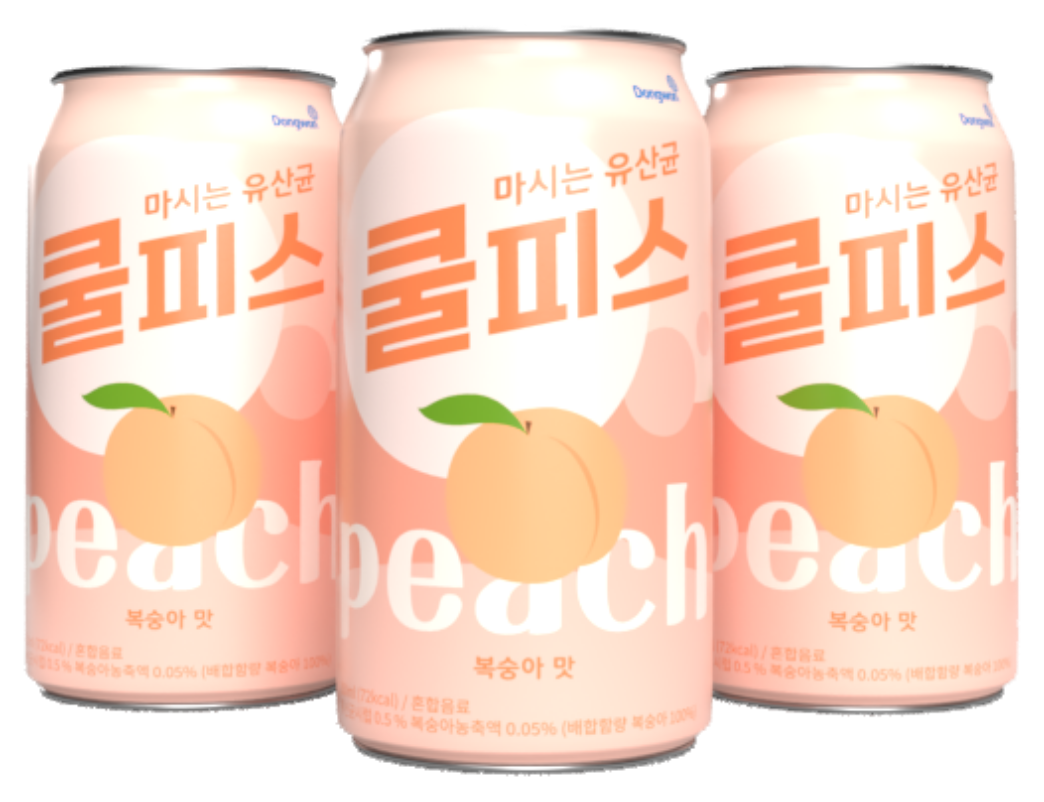
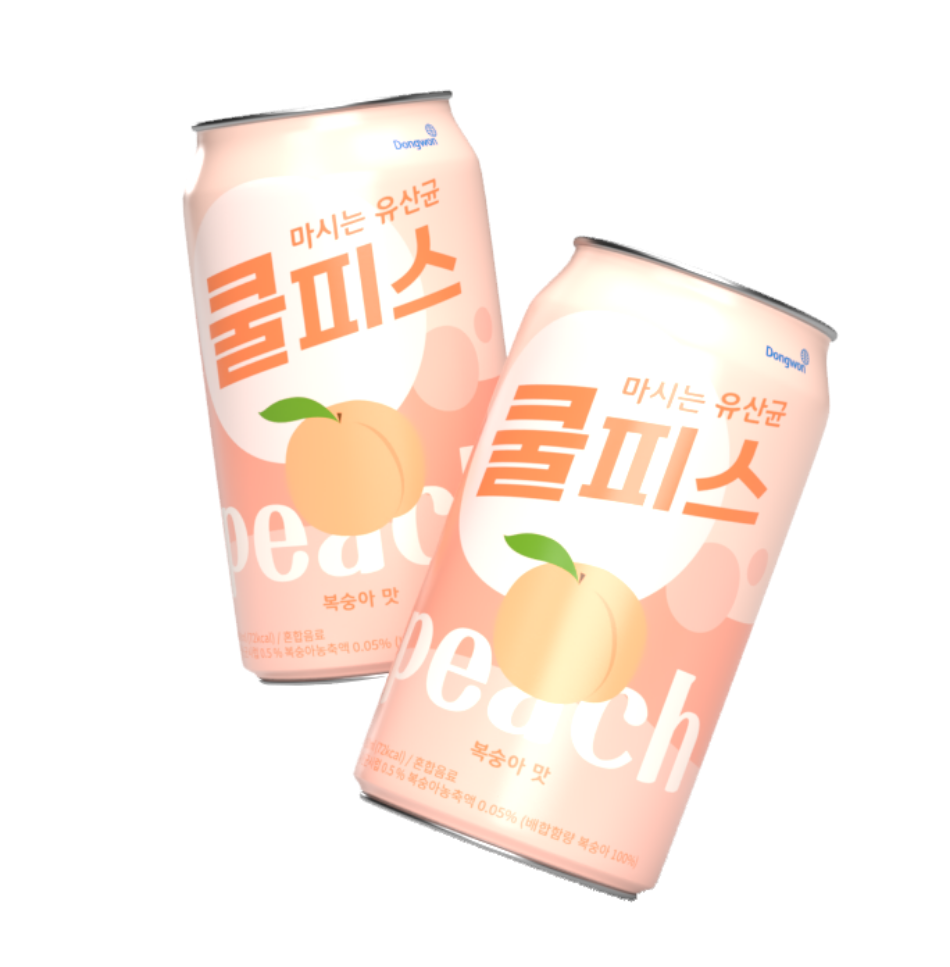
Add files via upload

diff --git a/style.css b/style.css
@@ -46,26 +46,26 @@
     
 .box3{
     width: 100%;
-    height: 1190px;
+    height: 1194px;
     background-image: url(img/bg02.png);
     background-size: cover; }
 .cont3{
     width: 1100px;
-    height: 1190px;
+    height: 979px;
     margin: 0 auto;
     display: flex;
     justify-content: center;
     position: relative; }
 .can2{
-    width: 549px;
-    height: 1033px;
+    width: 1100px;
+    height: 844px;
     position: absolute;
-    top: 158px; }
+    top: 350px; }
 
     
 .box4{
     width: 100%;
-    height: 208px;
+    height: 214px;
     text-align: center; }
 .cont4{
     width: 111px;
@@ -79,7 +79,7 @@
     
 .box5{
     width: 100%;
-    height: 382px; }
+    height: 368px; }
 .cont5{
     width: 706px;
     height: 382px;
@@ -99,34 +99,36 @@
 
 .box6{
     width: 100%;
-    height: 768px;
-    background-image: url(img/bg03.png);
-    background-position: center;
-    background-size: cover; }
+    height: 733px; }
 .cont6{
-    width: 1100px;
-    height: 768px;
+    width: 100%;
+    height: 733px;
     margin: 0 auto;
-    text-align: center; }
+    text-align: center;
+    background-image: url(img/bg03.png); }
 .cont6 > img{
-    padding-top: 242px; }
+    padding-top: 63px;}
 
 
 .box7{
     width: 100%;
-    height: 925px; }
+    height: 967px; }
 .cont7{
     width: 1100px;
-    height: 925px;
-    margin: 0 auto; }
-.cont7 > img{
-    padding-top: 64px; }
+    height: 967px;
+    margin: 0 auto; 
+    display: flex;
+    justify-content: center;
+    position: relative; }
 
 
 .box8{
     width: 100%;
-    height: 590px;
-    background-color: #FFB098; }
+    height: 590px;    
+    background-image: url(img/bg04.png);
+    background-position: center;
+    background-size: cover;
+ }
 .cont8{
     width: 1100px;
     height: 590px;

diff --git a/index.html b/index.html
@@ -50,7 +50,7 @@
 
     <div class="box6">
         <div class="cont6">
-            <img src="img/07_label.png" alt="쿨피스 라벨">
+            <img src="img/07_icon.png" alt="쿨피스 라벨">
         </div>
     </div>
 
